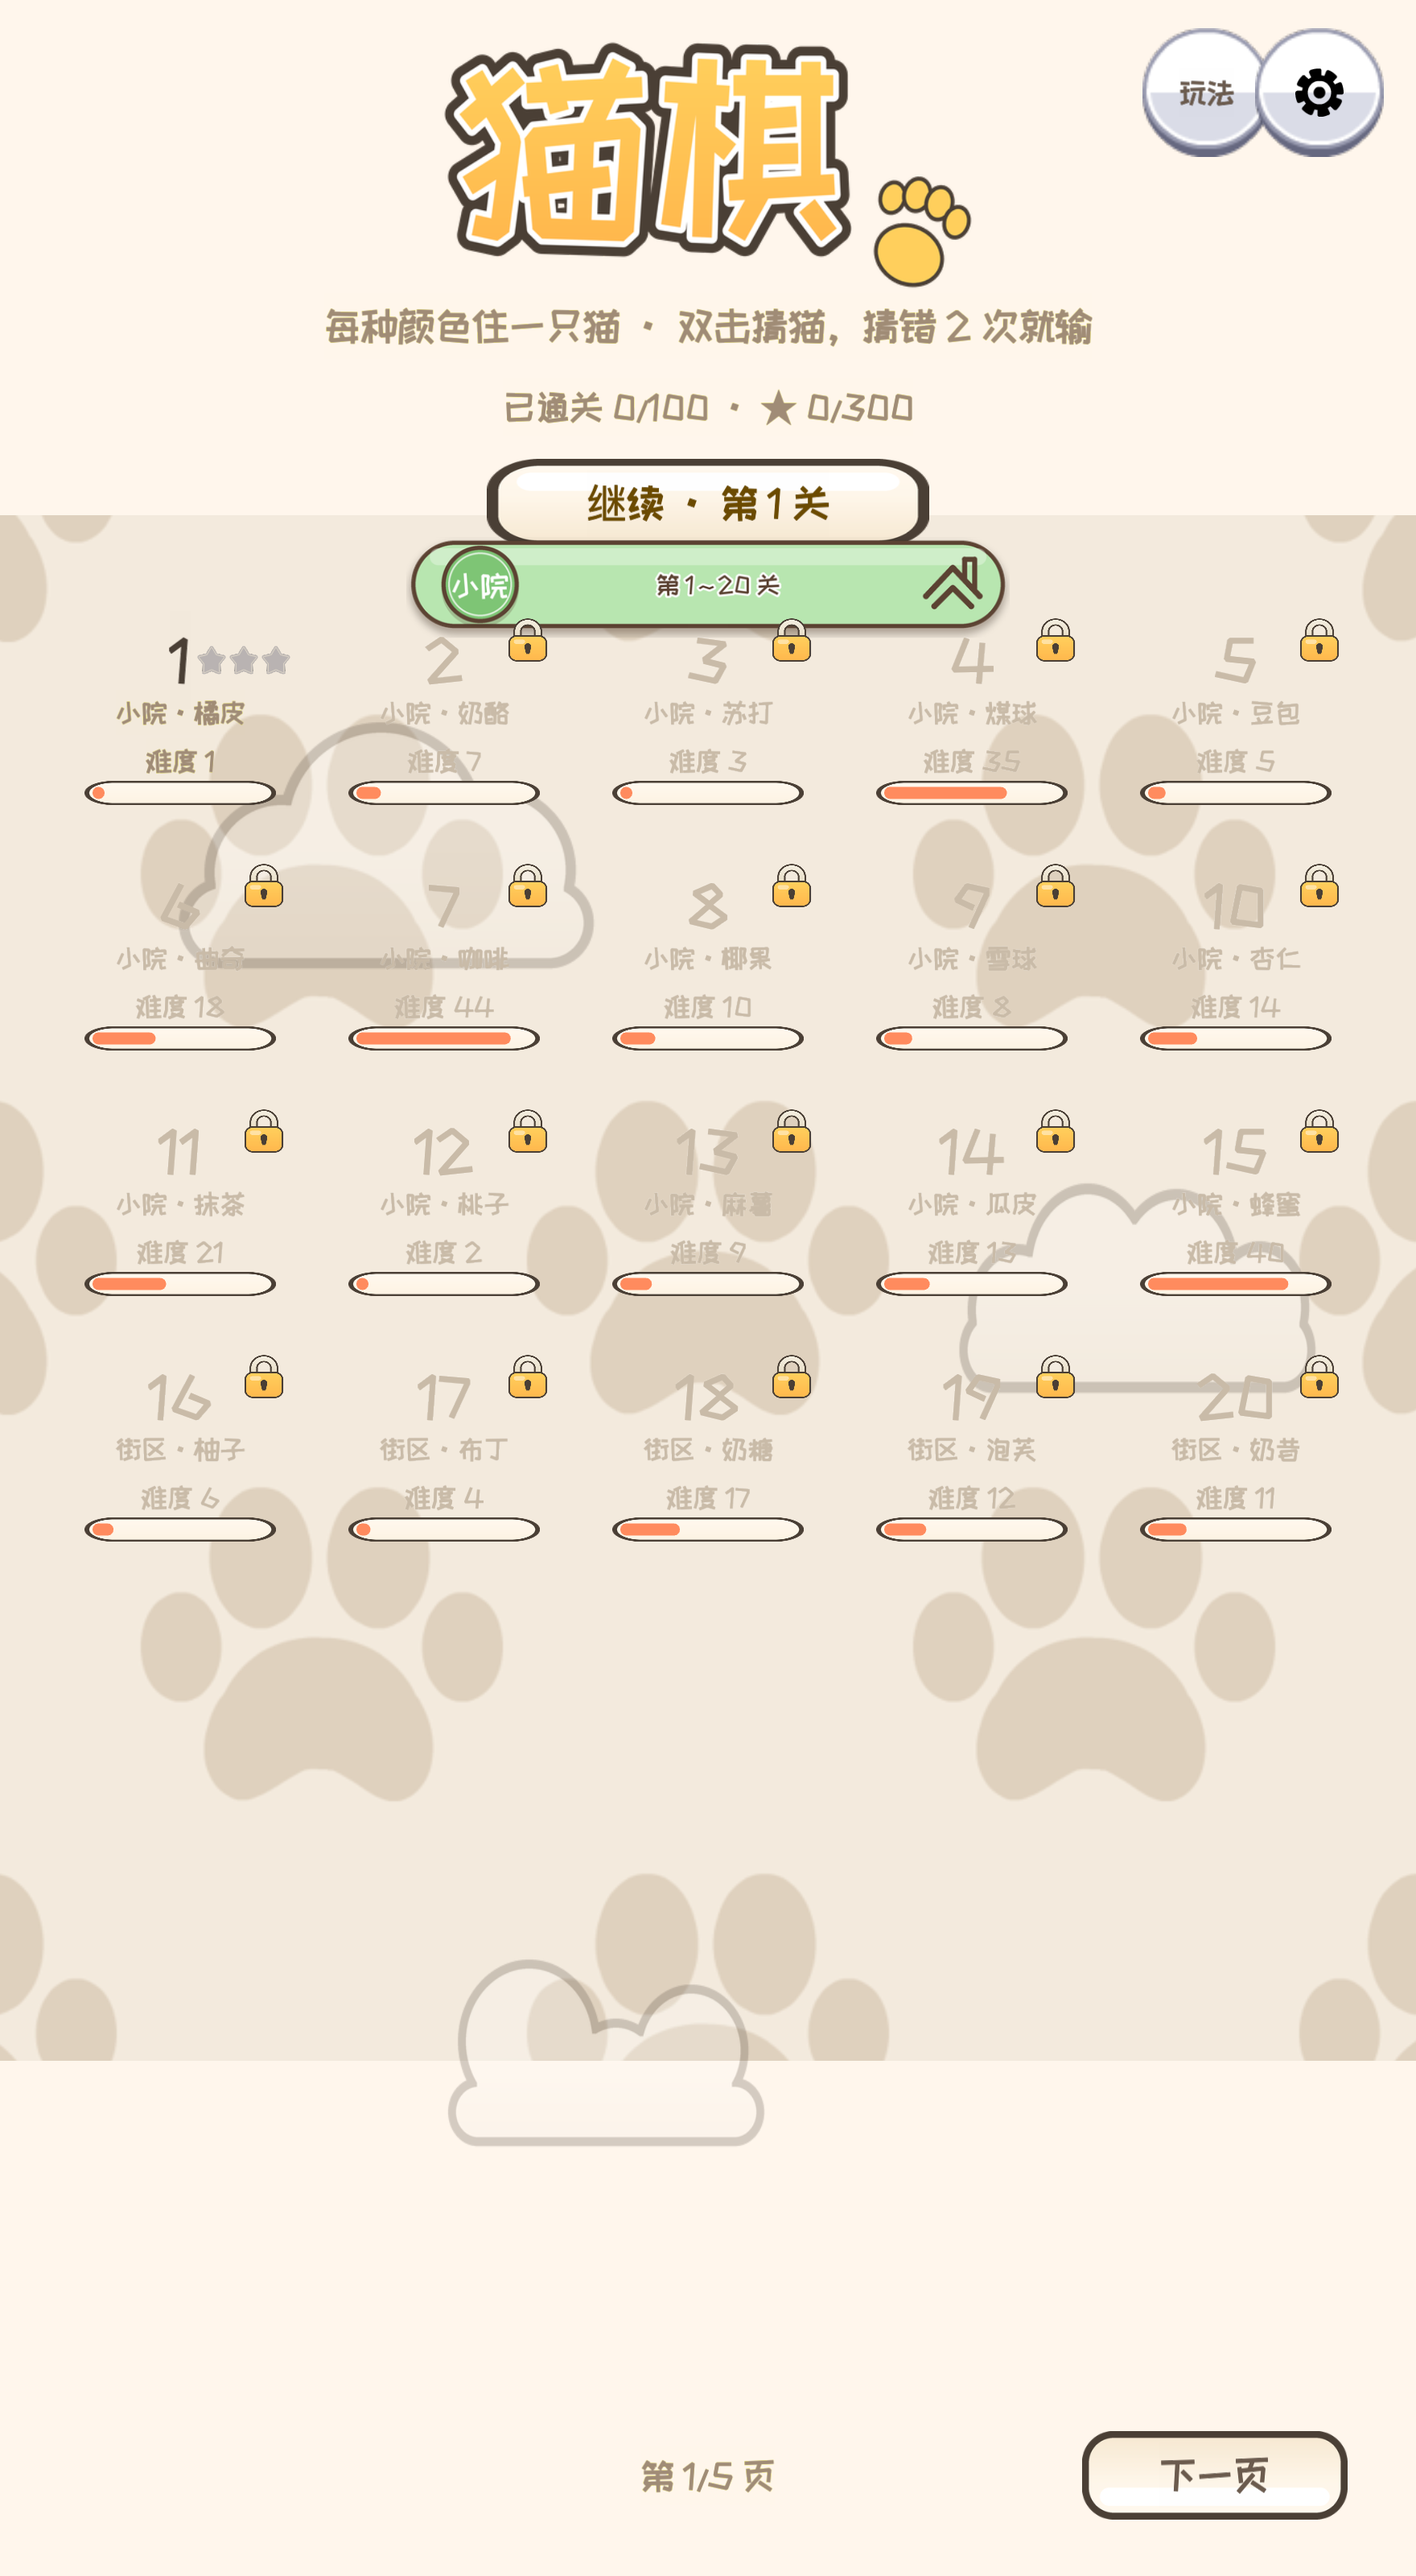
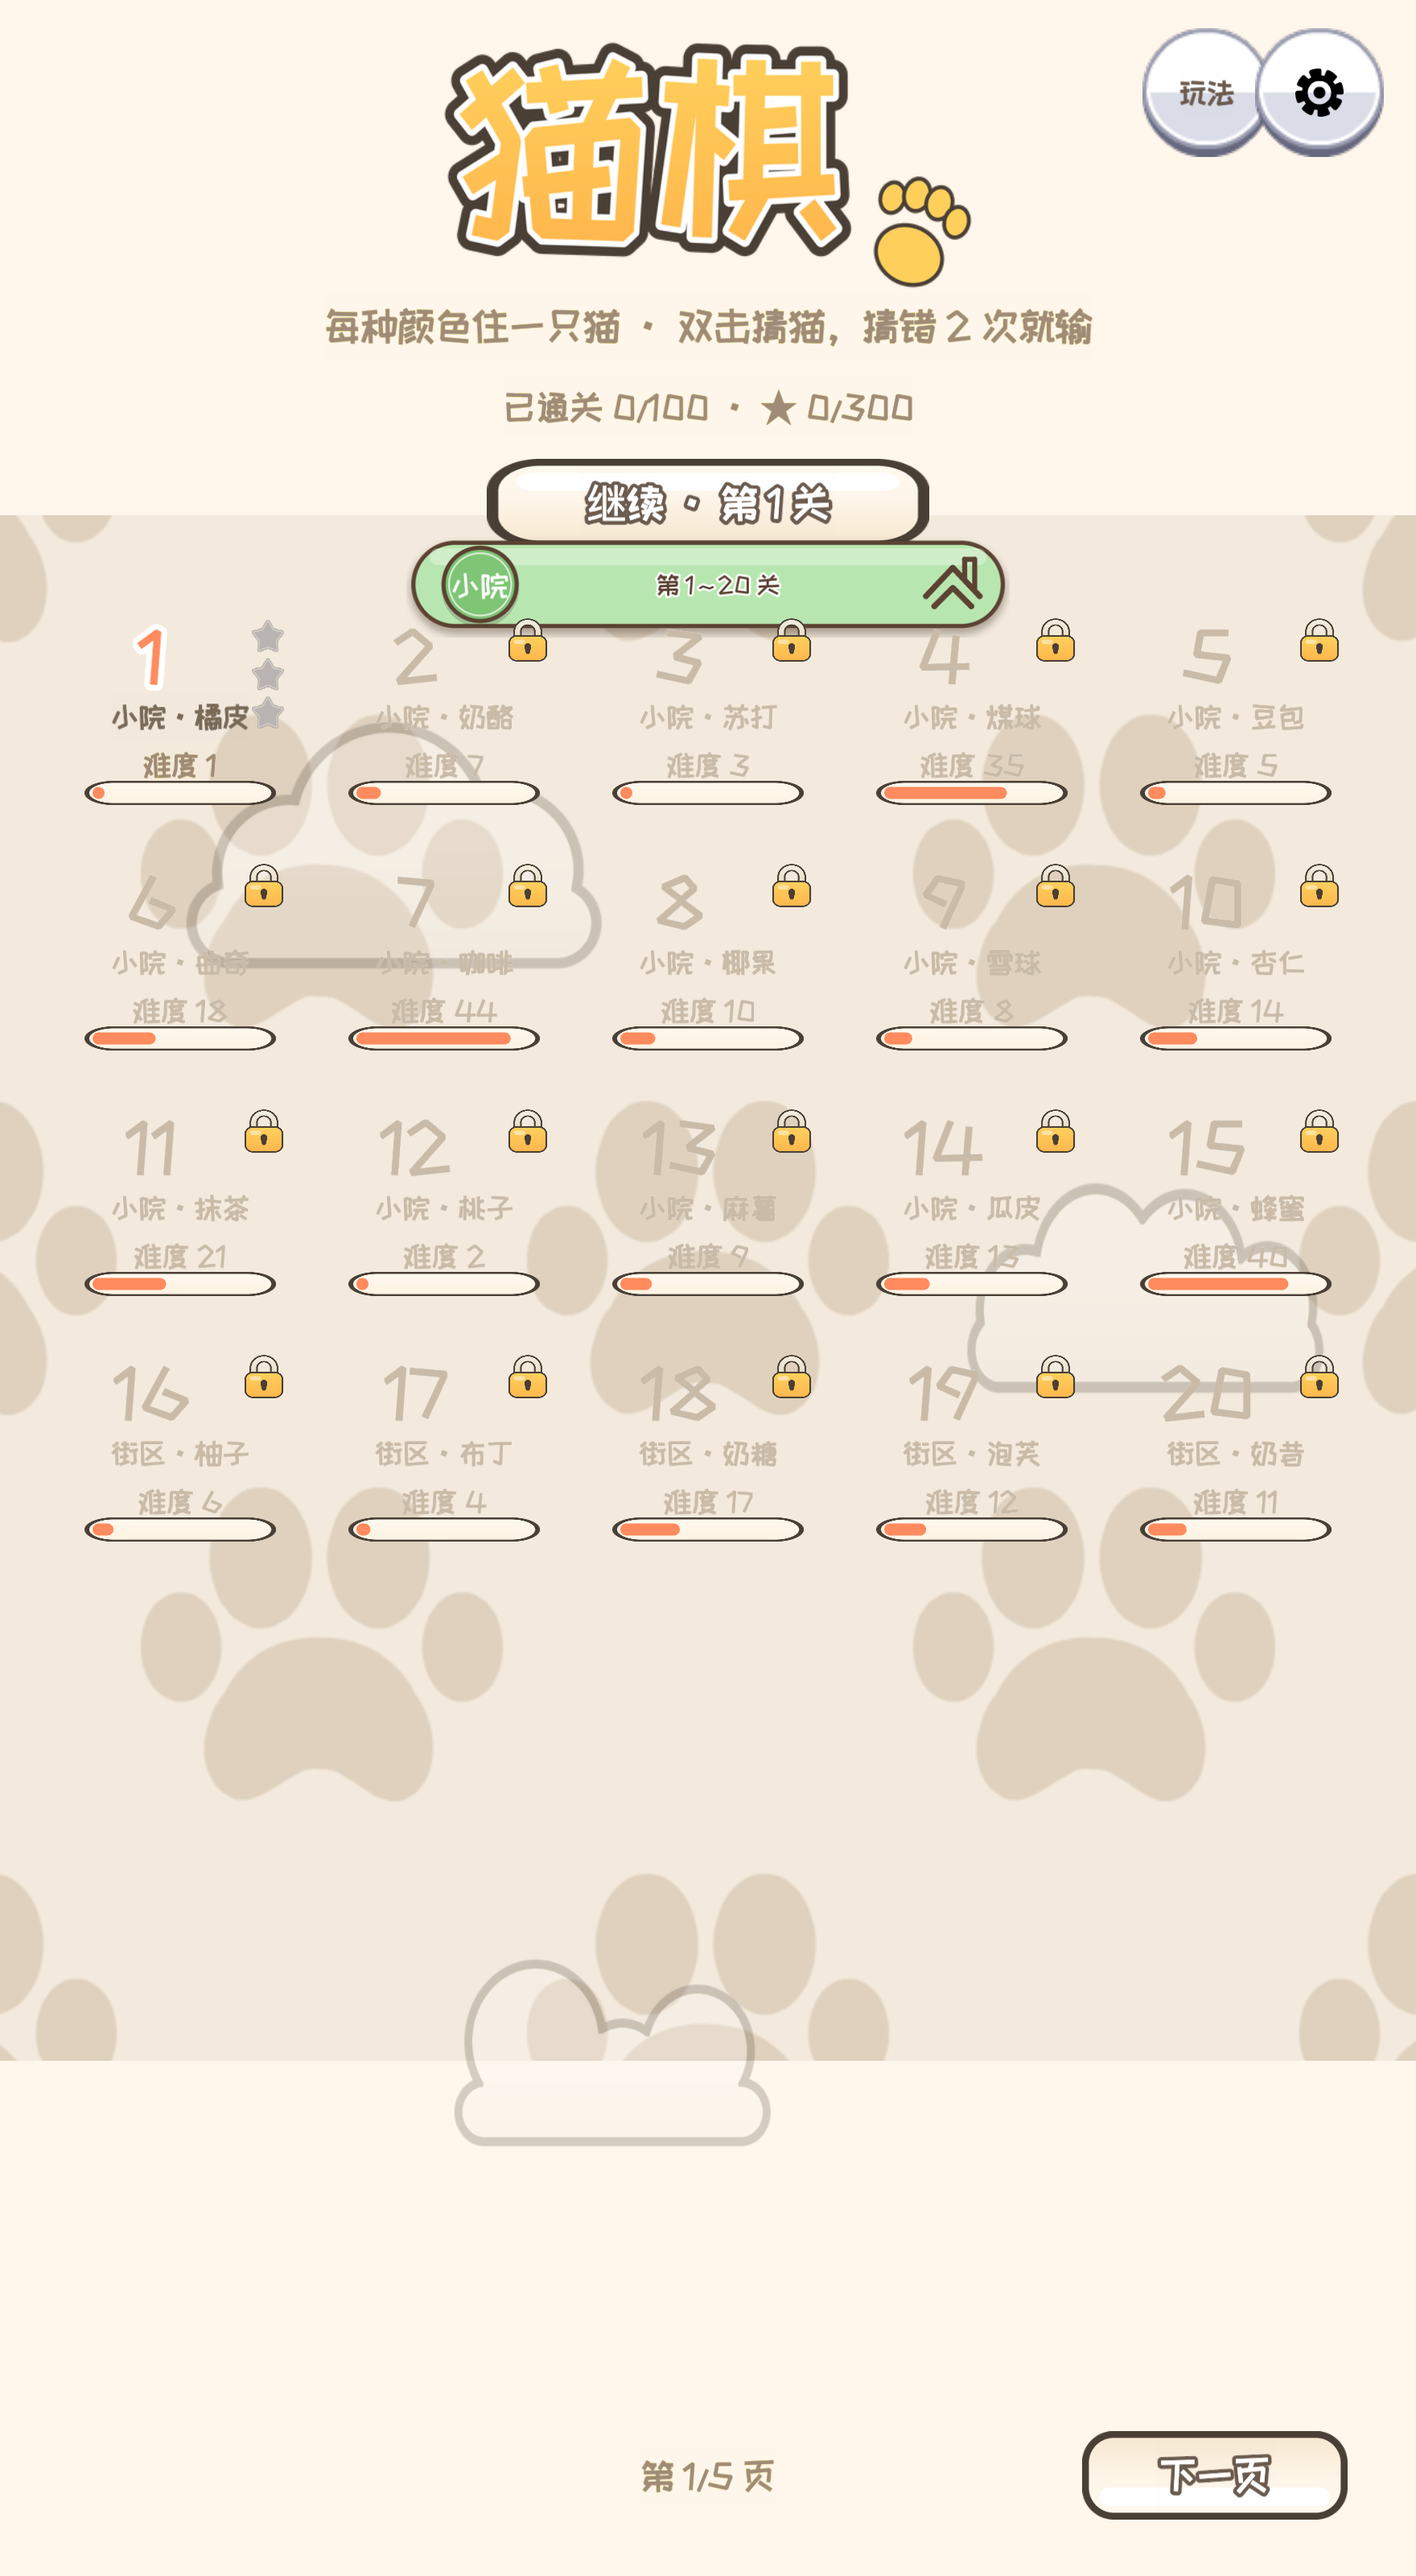
feat(cocos): 卡通化打磨——规则徽章/文字描边/游戏页布局重排
- 规则页重做：马卡龙色数字徽章×6 + 短文案左对齐 + 自家猫头像 + 艺术字标题（告别说明书风）
- 文字描边：LabelOutline 组件封装进 makeLabel（outline 参数），按钮白字棕描边、卡片数字橘色白描边 36px
- 游戏页布局重排：猜错双叉独立左上、信息栏胶囊右移居中——不再挤在一行
- 关卡卡片：数字 36px 橘色白描边、名字/难度 15px 层次分明、星星右上竖排（修与数字重叠）
- 附带：e2e-full.mjs mouse 派发化（agent 产出）与设置卡重排

diff --git a/cocos/assets/scripts/boot.ts b/cocos/assets/scripts/boot.ts
@@ -5,7 +5,7 @@
  * 性能约束：棋盘全部色块/边界画在 board 的单个 Graphics 上（1 dc）；✕/高亮/猫等渲染件按需惰性创建。
  * 猫四态：cat_idle 必备；cat_happy/cat_hurt/cat_dead 缺失时自动降级为 idle+变形动画（出图后直接热替换）。
  * 场景里挂这一个组件即可（assets/scenes/main.scene）。 */
-import { _decorator, Component, Node, Label, Graphics, UITransform, Color, Vec3, tween, Tween, UIOpacity, Input, sys, Sprite, SpriteFrame, resources, AudioClip, AudioSource, view, Layers, ResolutionPolicy, Canvas, Camera, director, Font, Texture2D, Rect } from 'cc';
+import { _decorator, Component, Node, Label, Graphics, UITransform, Color, Vec3, tween, Tween, UIOpacity, Input, sys, Sprite, SpriteFrame, resources, AudioClip, AudioSource, view, Layers, ResolutionPolicy, Canvas, Camera, director, Font, Texture2D, Rect, LabelOutline } from 'cc';
 const { ccclass } = _decorator;
 
 import CatChessMod from './engine/index';
@@ -355,9 +355,9 @@ export class Boot extends Component {
       const sp = cardBg.getComponent(Sprite) as Sprite;
       sp.color = new Color(228, 222, 212, 255);   /* 锁定卡整体压灰 */
     }
-    const no = this.makeLabel(String(lv.id), 30, unlocked ? INK : FAINT); no.node.setPosition(0, 26, 0); n.addChild(no.node);
-    const nm = this.makeLabel(lv.name, 14, unlocked ? SUB : FAINT); nm.node.setPosition(0, 0, 0); n.addChild(nm.node);
-    const df = this.makeLabel('难度 ' + lv.difficulty, 14, unlocked ? SUB : FAINT); df.node.setPosition(0, -24, 0); n.addChild(df.node);
+    const no = this.makeLabel(String(lv.id), 36, unlocked ? '#ff8b5e' : FAINT, unlocked ? '#ffffff' : undefined, 3); no.node.setPosition(-14, 28, 0); n.addChild(no.node);
+    const nm = this.makeLabel(lv.name, 15, unlocked ? '#7a6a58' : FAINT); nm.node.setPosition(0, -2, 0); n.addChild(nm.node);
+    const df = this.makeLabel('难度 ' + lv.difficulty, 15, unlocked ? SUB : FAINT); df.node.setPosition(0, -26, 0); n.addChild(df.node);
     /* 难度条（胶囊底 + /50 封顶） */
     const barW = w - 24;
     const ratio = Math.min(1, lv.difficulty / 50);
@@ -382,9 +382,9 @@ export class Boot extends Component {
     } else {
       const stars = this.save.won[String(lv.id)] || 0;
       for (let k = 0; k < 3; k++) {
-        /* 星星放数字行右侧横排（数字居中不重叠），金色=已得、浅灰=未得 */
-        const st = this.makeSprite(k < stars ? 'icon_star' : 'icon_star_empty', 14, 14, undefined, k < stars ? GOLD : '#d8d0c4');
-        if (st) { st.setPosition(w / 2 - 12 - (2 - k) * 16, 26, 0); n.addChild(st); }
+        /* 星星放右上角竖向错开（数字左置不再冲突），金色=已得、浅灰=未得 */
+        const st = this.makeSprite(k < stars ? 'icon_star' : 'icon_star_empty', 16, 16, undefined, k < stars ? GOLD : '#d8d0c4');
+        if (st) { st.setPosition(w / 2 - 16, h / 2 - 16 - k * 19, 0); n.addChild(st); }
       }
     }
     return n;
@@ -414,10 +414,12 @@ export class Boot extends Component {
     this.cellPx = Math.floor(this.boardPx / n);
     this.boardPx = this.cellPx * n;
 
-    this.infoLabel = this.makeLabel('', 19, '#8a7560');
-    this.infoLabel.node.setPosition(0, H / 2 - 40, 0);
-    const ib = this.makeSprite('infobar', Math.min(W - 40, 520), 54);
-    if (ib) { ib.setPosition(0, H / 2 - 40, 0); this.root.addChild(ib); }
+    /* 信息栏（胶囊底板，右移给双叉让位）+ 猜错双叉内嵌左端——重排后不再挤 */
+    this.infoLabel = this.makeLabel('', 20, '#8a7560');
+    const ibW = Math.min(W - 220, 470);
+    this.infoLabel.node.setPosition(W / 2 - 96 - ibW / 2 + 50, H / 2 - 40, 0);
+    const ib = this.makeSprite('infobar', ibW, 54);
+    if (ib) { ib.setPosition(W / 2 - 96 - ibW / 2 + 50, H / 2 - 40, 0); this.root.addChild(ib); }
     this.root.addChild(this.infoLabel.node);
     /* 猜错计数（两枚叉图标：淡=剩余机会，红=已用） */
     this.failIcons = [];
@@ -925,12 +927,41 @@ export class Boot extends Component {
 
   /* ============ 规则页 / 设置页 ============ */
   private showRules(after: () => void) {
-    this.showOverlay('🐱', '怎么玩', '· 每种颜色住一只猫，每行每列也各一只\n' +
-      '· 两只猫不能挨在一起（斜角也算挨着）\n' +
-      '· 点一下格子：标 ✕（这里没有猫）\n' +
-      '· 再点一下取消；按住拖动连着标\n' +
-      '· 双击：猜猫在这！猜错 2 次就输\n' +
-      '· 卡住了就点「提示」', () => { after(); }, '知道了', true, 'title_rules');
+    const { width: W } = this.viewSize();
+    const mask = this.makeMask(true);
+    const card = this.cardShell(mask, Math.min(460, W - 40), 460);
+    const av = this.makeSprite('cat_idle', 70, 78);
+    if (av) { av.setPosition(0, 168, 0); card.addChild(av); }
+    const tw = this.makeSprite('title_rules', 210, 57);
+    if (tw) { tw.setPosition(0, 104, 0); card.addChild(tw); }
+    else { const t = this.makeLabel('怎么玩', 28, INK); t.node.setPosition(0, 104, 0); card.addChild(t.node); }
+    /* 六条规则：马卡龙色数字徽章 + 短文案 */
+    const lines: [string, string, string][] = [
+      ['1', '每种颜色住一只猫，每行每列也各一只', '#ffcf5c'],
+      ['2', '两只猫不能挨在一起（斜角也算）', '#f5a9a0'],
+      ['3', '点格子标 ✕（这里没有猫）', '#b8e6b0'],
+      ['4', '再点取消；按住拖动连着标', '#aed6f5'],
+      ['5', '双击：猜猫在这！猜错 2 次就输', '#d9c4ee'],
+      ['6', '卡住了就点「提示」', '#f9c895'],
+    ];
+    lines.forEach((ln, k) => {
+      const y = 56 - k * 40;
+      const [num, text, color] = ln;
+      const bd = this.uiNode('badge'); bd.addComponent(UITransform).setContentSize(30, 30);
+      const bg = bd.addComponent(Graphics);
+      const [r, g, b] = this.hexColor(color);
+      bg.fillColor = new Color(r, g, b, 255); bg.circle(0, 0, 15); bg.fill();
+      bg.lineWidth = 3; bg.strokeColor = new Color(255, 255, 255, 255); bg.circle(0, 0, 15); bg.stroke();
+      const nb = this.makeLabel(num, 16, '#ffffff'); nb.node.setPosition(0, 0, 0); bd.addChild(nb.node);
+      bd.setPosition(-146, y, 0); card.addChild(bd);
+      const lb = this.makeLabel(text, 17, '#6b5b4e');
+      lb.horizontalAlign = Label.HorizontalAlign.LEFT;
+      lb.node.getComponent(UITransform)!.setAnchorPoint(0, 0.5);
+      lb.node.setPosition(-128, y, 0); card.addChild(lb.node);
+    });
+    card.addChild(this.makeButton('知道了', new Vec3(0, -186, 0), () => { this.dismissMask(mask); after(); }, { accent: true }));
+    card.setScale(0.6, 0.6, 1);
+    tween(card).to(0.26, { scale: new Vec3(1, 1, 1) }, { easing: 'backOut' }).start();
   }
 
   private showSettings() {
@@ -1041,13 +1072,18 @@ export class Boot extends Component {
     n.layer = Layers.Enum.UI_2D;
     return n;
   }
-  private makeLabel(text: string, size: number, color: string): Label {
+  private makeLabel(text: string, size: number, color: string, outline?: string, outlineW = 2): Label {
     const n = this.uiNode('label');
     n.addComponent(UITransform);
     const lb = n.addComponent(Label);
     if (this.uiFont) lb.font = this.uiFont;   /* 卡通字体（站酷快乐体子集），未加载完回退系统字 */
     lb.string = text; lb.fontSize = size; lb.lineHeight = size * 1.3;
     lb.color = new Color(this.hexColor(color)[0], this.hexColor(color)[1], this.hexColor(color)[2], 255);
+    if (outline) {
+      const lo = lb.addComponent(LabelOutline);
+      lo.color = new Color(this.hexColor(outline)[0], this.hexColor(outline)[1], this.hexColor(outline)[2], 255);
+      lo.width = outlineW;
+    }
     return lb;
   }
   private makeSprite(img: string, w: number, h: number, name?: string, tint?: string): Node | null {
@@ -1083,7 +1119,7 @@ export class Boot extends Component {
       const ic = this.makeSprite(opts.icon, 20, 20);
       if (ic) { ic.setPosition(-w / 2 + 28, 0, 0); n.addChild(ic); lx = 10; }
     }
-    const lb = this.makeLabel(text, 20, opts.accent ? '#6b4a00' : '#6b5b4e');
+    const lb = this.makeLabel(text, 20, '#ffffff', '#6b5b4e', 2);
     lb.node.setPosition(lx, 0, 0);
     n.addChild(lb.node);
     n.setPosition(pos.x, pos.y, pos.z);
